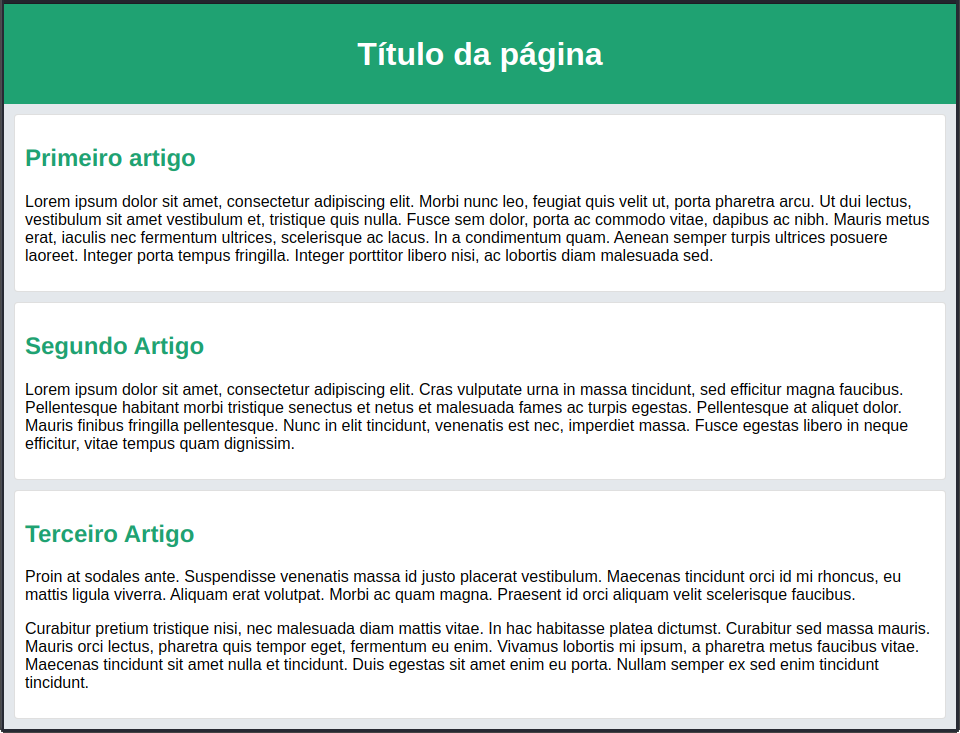
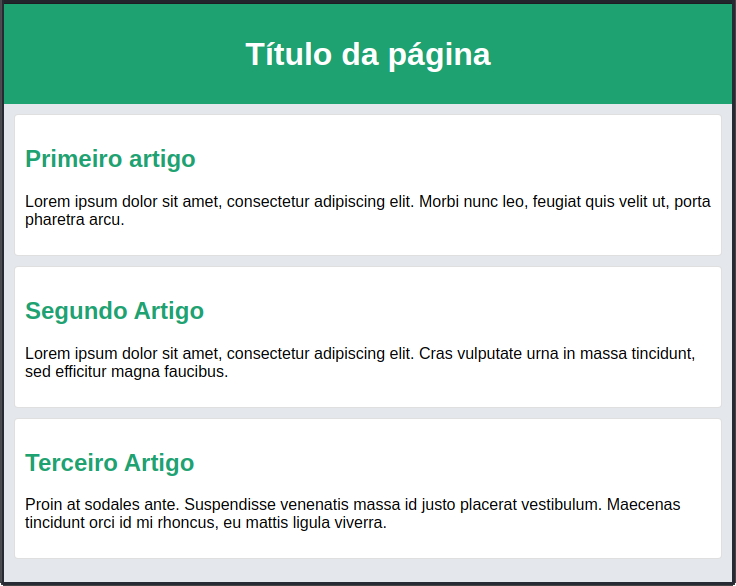
Changes image an adds code to md

diff --git a/no-flex-example.html b/no-flex-example.html
@@ -32,32 +32,34 @@
       border: 1px solid rgba(0,0,0,.125);
       border-radius: .25rem;
     }
+
+    /* section {
+      display: flex;
+    } */
   </style>
 </head>
 <body>
   <header>
     <h1>Título da página</h1>
   </header>
-
   <section>
     <article>
       <h2>Primeiro artigo</h2>
-
-      <p>Lorem ipsum dolor sit amet, consectetur adipiscing elit. Morbi nunc leo, feugiat quis velit ut, porta pharetra arcu. Ut dui lectus, vestibulum sit amet vestibulum et, tristique quis nulla. Fusce sem dolor, porta ac commodo vitae, dapibus ac nibh. Mauris metus erat, iaculis nec fermentum ultrices, scelerisque ac lacus. In a condimentum quam. Aenean semper turpis ultrices posuere laoreet. Integer porta tempus fringilla. Integer porttitor libero nisi, ac lobortis diam malesuada sed.</p>
+      <p>Lorem ipsum dolor sit amet, consectetur adipiscing
+      elit. Morbi nunc leo, feugiat quis velit ut, porta
+      pharetra arcu.</p>
     </article>
-
     <article>
       <h2>Segundo Artigo</h2>
-
-      <p>Lorem ipsum dolor sit amet, consectetur adipiscing elit. Cras vulputate urna in massa tincidunt, sed efficitur magna faucibus. Pellentesque habitant morbi tristique senectus et netus et malesuada fames ac turpis egestas. Pellentesque at aliquet dolor. Mauris finibus fringilla pellentesque. Nunc in elit tincidunt, venenatis est nec, imperdiet massa. Fusce egestas libero in neque efficitur, vitae tempus quam dignissim.</p>
+      <p>Lorem ipsum dolor sit amet, consectetur adipiscing
+      elit. Cras vulputate urna in massa tincidunt, sed
+      efficitur magna faucibus.</p>
     </article>
-
     <article>
       <h2>Terceiro Artigo</h2>
-
-      <p>Proin at sodales ante. Suspendisse venenatis massa id justo placerat vestibulum. Maecenas tincidunt orci id mi rhoncus, eu mattis ligula viverra. Aliquam erat volutpat. Morbi ac quam magna. Praesent id orci aliquam velit scelerisque faucibus.</p>
-
-      <p>Curabitur pretium tristique nisi, nec malesuada diam mattis vitae. In hac habitasse platea dictumst. Curabitur sed massa mauris. Mauris orci lectus, pharetra quis tempor eget, fermentum eu enim. Vivamus lobortis mi ipsum, a pharetra metus faucibus vitae. Maecenas tincidunt sit amet nulla et tincidunt. Duis egestas sit amet enim eu porta. Nullam semper ex sed enim tincidunt tincidunt.</p>
+      <p>Proin at sodales ante. Suspendisse venenatis massa id
+      justo placerat vestibulum. Maecenas tincidunt orci id mi
+      rhoncus, eu mattis ligula viverra.</p>
     </article>
   </section>
 </body>

diff --git a/README.md b/README.md
@@ -15,14 +15,44 @@ Mas como você já sabe, criar um layout bem feito apenas com essas propriedades
 -   Alinhar *verticalmente* um bloco de conteúdo *no centro* do bloco que o contém;
 -   Fazer todos os elementos descendentes de um outro elemento ocuparem a mesma quantidade de espaço considerando a largura e altura disponíveis;
 -   Fazer todas as colunas de um conteúdo possuírem a mesma altura mesmo tendo conteúdos de tamanhos diferentes.
+-  Possibilitar com muito menos dor de cabeça a criação de layouts responsivos, o que você aprenderá mis adiante!
+
 Com a chegada do CSS3, foi introduzido um modelo que acabou de vez com esse problema: o *Flexible Boxes*, ou **flexbox**. Com ele, tornou-se possível desenvolver layouts com muito mais facilidade e precisão: ele organiza os elementos de uma forma previsível e que pode ser facilmente adaptada para diferentes browsers e tamanhos de tela.
 
 Vamos ver com mais detalhes todas as possibilidades maravilhosas trazidas pelo *flexbox*?
  
 ## Conteúdos
 
-Para conseguir entender de verdade como funciona o *flexbox*,  primeiro vamos relembrar o comportamento padrão de uma página HTML:
+Para conseguir entender de verdade como funciona o *flexbox*,  primeiro vamos relembrar o comportamento padrão de uma página HTML, considerando o seguinte código:
 
-https://codepen.io/Coderesting/pen/yLyaJMz
+    <body>
+      <header>
+        <h1>Título da página</h1>
+      </header>
+      <section>
+        <article>
+          <h2>Primeiro artigo</h2>
+          <p>Lorem ipsum dolor sit amet, consectetur adipiscing
+          elit. Morbi nunc leo, feugiat quis velit ut, porta
+          pharetra arcu.</p>
+        </article>
+        <article>
+	      <h2>Segundo Artigo</h2>
+	      <p>Lorem ipsum dolor sit amet, consectetur adipiscing
+	      elit. Cras vulputate urna in massa tincidunt, sed
+          efficitur magna faucibus.</p>
+	    </article>
+	    <article>
+	      <h2>Terceiro Artigo</h2>
+	      <p>Proin at sodales ante. Suspendisse venenatis massa id
+	      justo placerat vestibulum. Maecenas tincidunt orci id mi
+	      rhoncus, eu mattis ligula viverra.</p>
+	    </article>
+	  </section>
+	</body>
 
-<script async src="https://static.codepen.io/assets/embed/ei.js"></script>
+Ao rodar esse código no browser utilizando o layout padrão do HTML, a sessão ficará abaixo do header, todos os artigos ficarão abaixo um do outro e os parágrafos ficarão abaixo dos h2.
+
+Para exemplificar, vejamos como fica a página com o layput padrão (após algumas estilizações no css pra deixar com a cara da Trybe :wink:):
+
+![Layout sem flexbox](no-flex-example.png)
